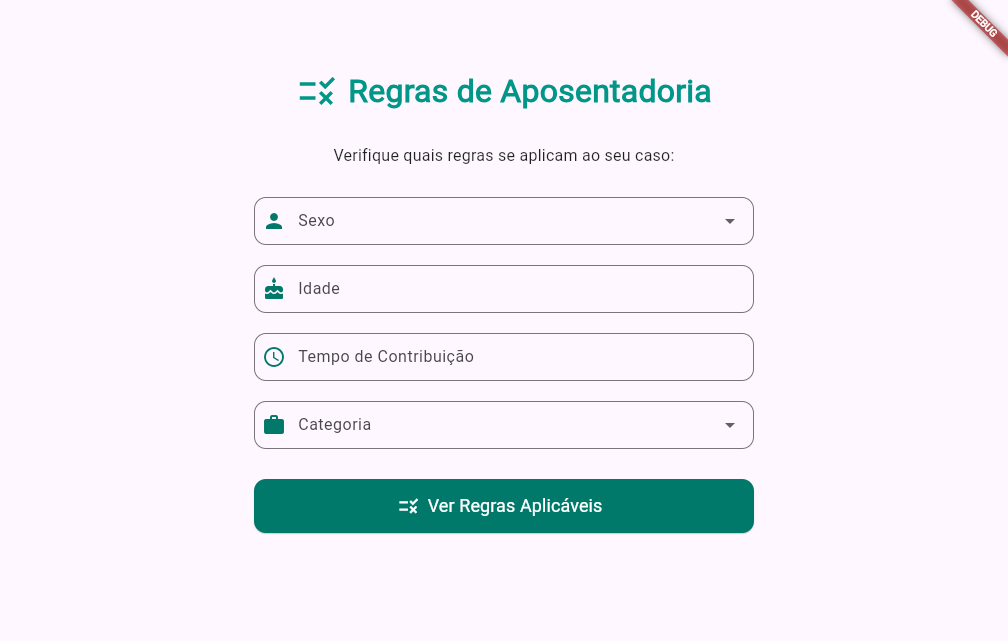
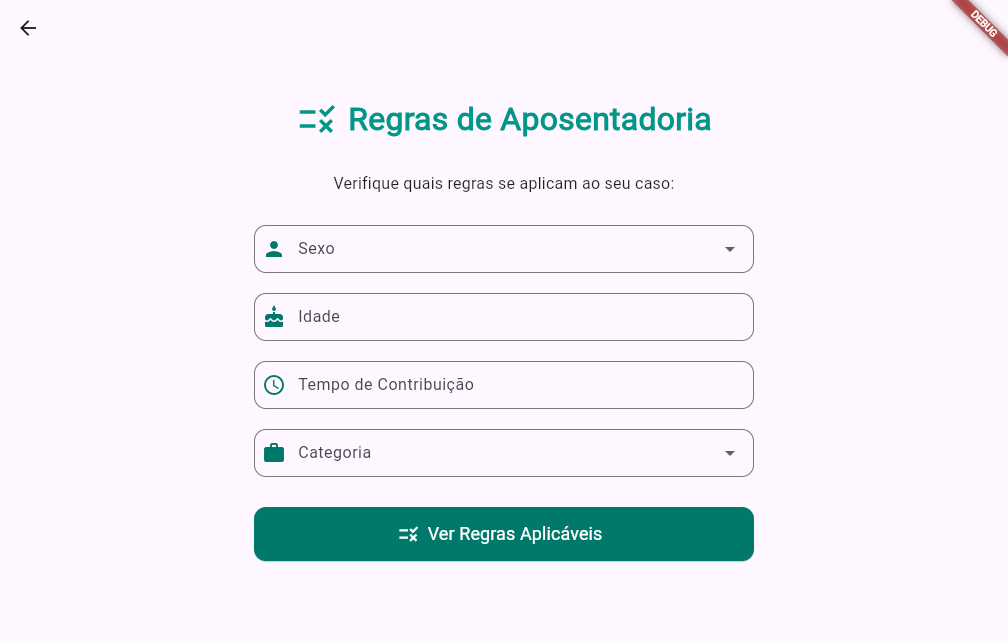
teste funcional quando aposentar

diff --git a/api/tests/aposFuncional.test.js b/api/tests/aposFuncional.test.js
@@ -47,7 +47,7 @@ async function preencherCampo(driver, xpath, texto, timeout = 15000) {
 
         const bridge = new FlutterSeleniumBridge(driver);
         await driver.manage().window().setRect(screen);
-        await driver.get('http://localhost:59686/');
+        await driver.get('http://localhost:64787/');
 
         console.log('Esperando 10s para o app carregar...');
         await driver.sleep(10000);
@@ -139,9 +139,19 @@ async function preencherCampo(driver, xpath, texto, timeout = 15000) {
         await takeScreenshot(driver, '../fotos/APOS/regras_screen_result.png', 'Gravou Foto da Tela de Regras de Aposentadoria Resultado');
         await clickAndSearchElement(driver, "//flt-semantics[@role='button' and contains(text(), 'Back')]");
 
+        // Quando Aposentar Screen
+        await clickAndSearchElement(driver, "//flt-semantics[text()='Quando posso me aposentar?']");
+        await takeScreenshot(driver, '../fotos/APOS/quando_screen.png', 'Gravou Foto da Tela de Quando Aposenar');
 
+        // Preenchendo campos
+        await preencherCampo(driver, "//*[@aria-label='Idade']", "45");
+        await preencherCampo(driver, "//*[@aria-label='Tempo de Contribuição (anos)']", "11");
+        await clickAndSearchElement(driver, "//flt-semantics[@role='button' and contains(text(), 'Calcular')]");
 
-
+        // Quando Aposentar Screen Resultado
+        await driver.sleep(15000);
+        await takeScreenshot(driver, '../fotos/APOS/quando_screen_result.png', 'Gravou Foto da Tela de Quando Aposentar Resultado');
+        await clickAndSearchElement(driver, "//flt-semantics[@role='button' and contains(text(), 'Back')]");
 
 
         // Saindo

diff --git a/web/gcseic25/lib/equipes/APOS/screens/quando_screen.dart b/web/gcseic25/lib/equipes/APOS/screens/quando_screen.dart
@@ -63,6 +63,7 @@ class _QuandoScreenState extends State<QuandoScreen> {
     final primaryColor = Colors.teal.shade700;
 
     return Scaffold(
+      appBar: AppBar(title: const Text('')),
       body: Center(
         child: SingleChildScrollView(
           padding: const EdgeInsets.all(16.0),
